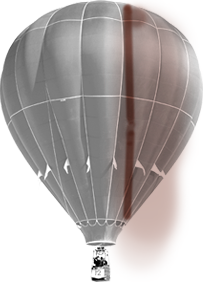
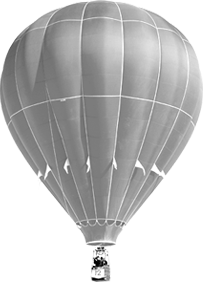
otra animacion mas y limpio la img del globso

Changed region(s): [[0.532, 0.0, 0.9458, 0.9362]]

diff --git a/app/scripts/main.js b/app/scripts/main.js
@@ -1,3 +1,4 @@
+
 $(function () {
     var alto = window.innerHeight;
     var $cap1 = $('#capitulo__1'),
@@ -15,100 +16,140 @@ $(function () {
         }
     });
     var controllerLa = new ScrollMagic.Controller();
+    var control;
+
+    var $sceneL = [], $sceneN = [], $sceneG = [];
+    var $letra = $('.letra');
+
+    function animaciones() {
+        control  = new ScrollMagic.Controller({
+            globalSceneOptions: {
+                triggerHook: 'onLeave'
+            }
+        });
+        $letra.each(function (i,e) {
+            $(this).css('transition', 'none');
+            $sceneL[i] = new ScrollMagic.Scene({
+                triggerElement: '#capitulo__' + Math.ceil((i+1)/2),
+                duration: $(this).parents('.capitulo').height()
+            })
+                .addIndicators({ name: 'letra' + i + ' (duration: ' + $(this).parents('.capitulo').height() + ')' })
+                .setTween($(this), { top : '-=10%' })
+                .addTo(control);
+        });
+        $('.nube').each(function (i,e) {
+            $(this).css('transition', 'none');
+            $sceneN[i] = new ScrollMagic.Scene({
+                triggerElement: '#capitulo__1',
+                duration: $(this).parents('.capitulo').height()-100
+            })
+                .setTween($(this), { left : '-='+ (2 + ((i+1) * 4)) +'%' })
+                .addTo(control);
+        });
+        $('.globo').each(function (i,e) {
+            $(this).css('transition', 'none');
+            $sceneG[i] = new ScrollMagic.Scene({
+                triggerElement: '#capitulo__1',
+                duration: $(this).parents('.capitulo').height()-100
+            })
+                .setTween($(this), { top : '+=10%' })
+                .addTo(control);
+        });
+        $('.abre').each(function (i, e) {
+            $(this).css('transition', 'none');
+            new ScrollMagic.Scene({
+                triggerElement: '#capitulo__2',
+                duration: $(this).parents('.capitulo').height()-100
+            })
+            .setTween($(this), { left : (i==1?'-':'+')+'=10%', top: (i==1?'-':'+')+'=5%' })
+            .addTo(control);
+        })
+    }
 
     $(document).ready(function () {
         var scene = new ScrollMagic.Scene({
-            triggerElement: "#capitulo__1",
+            triggerElement: '#capitulo__1',
             duration: $cap1.find('.capitulo__wrap').innerHeight() - alto
         })
-            .setPin("#capitulo__1 .capitulo__wrapGrph")
-            .addIndicators({ name: "1 pin (duration: 300)" })
+            .setPin('#capitulo__1 .capitulo__wrapGrph')
+            .addIndicators({ name: '1 pin (duration: 300)' })
             .addTo(controller),
 
         scene2 = new ScrollMagic.Scene({
-            triggerElement: "#capitulo__2",
+            triggerElement: '#capitulo__2',
             duration: $cap2.find('.capitulo__wrap').innerHeight() - alto
         })
-            .setPin("#capitulo__2 .capitulo__wrapGrph")
-            .addIndicators({ name: "2 pin (duration: 300)" })
+            .setPin('#capitulo__2 .capitulo__wrapGrph')
+            .addIndicators({ name: '2 pin (duration: 300)' })
             .addTo(controller),
 
         scene3 = new ScrollMagic.Scene({
-            triggerElement: "#capitulo__3",
+            triggerElement: '#capitulo__3',
             duration: $cap3.find('.capitulo__wrap').innerHeight() - alto
         })
-            .setPin("#capitulo__3 .capitulo__wrapGrph")
-            .addIndicators({ name: "3 pin (duration: 300)" })
+            .setPin('#capitulo__3 .capitulo__wrapGrph')
+            .addIndicators({ name: '3 pin (duration: 300)' })
             .addTo(controller);
-
         for(var i = 1; i < 4; i++) {
             new ScrollMagic.Scene({
-                triggerElement: "#capitulo__"+i,
+                triggerElement: '#capitulo__'+i,
                 duration: $('#capitulo__' + i ).find('.capitulo__wrap').innerHeight() - (i<3?alto/2:200)
             })
-                .setClassToggle(".animx_"+i, "active")
-                .addIndicators()
-                .on("enter leave", function (e) {
-                    setTimeout(function () {
-
-                        var $letra = $(".letra");
-
-                        $letra.each(function (i,e) {
-                            new ScrollMagic.Scene({
-                                triggerElement: "#capitulo__" + Math.ceil((i+1)/2),
-                                duration: $(this).parents('.capitulo').height()
-                            })
-                                .setTween($(this), { top : '-=15%' })
-                                .addTo(controller);
-                        });
-                    },500);
-                    console.log(e, e.type == "enter" ? "inside" : "outside");
-                })
-                .addTo((controllerLa));
+            .setClassToggle('.animx_'+i, 'active')
+            .addIndicators()
+            .on('enter leave', function (e) {
+                //console.log(e.type == "enter" ? "inside" : "outside");
+                if (e.type == 'enter'){
+                    $('.letra, .nube, .globo, .abre').css('transition', '.5s all ease-out .5s');
+                    setTimeout( animaciones, 1200 );
+                } else {
+                    control.destroy(true);
+                    control = null;
+                    $sceneL = $sceneN = $sceneG = [];
+                    $('.letra, .nube, .globo, .abre').css('transition', '.5s all ease-out');
+                }
+            })
+            .addTo((controllerLa));
             new ScrollMagic.Scene({
-                triggerElement: "#capitulo__"+i,
+                triggerElement: '#capitulo__'+i,
                 duration: $('#capitulo__' + i ).find('.capitulo__wrap').innerHeight() - (i<3?alto/2:200)
             })
-                .setClassToggle("#capitulo__"+i, "hover")
-                .addIndicators()
-                .addTo((i==1?controller:controllerLa));
+            .setClassToggle('#capitulo__'+i, 'hover')
+            .addIndicators()
+            .addTo((i==1?controller:controllerLa));
         }
 
-        TweenMax.set(".capitulo__texto p, .capitulo__texto blockquote", { y : '+=20%', opacity:0 });
-        var $tex = $(".capitulo__texto p, .capitulo__texto blockquote");
+        TweenMax.set('.capitulo__texto p, .capitulo__texto blockquote', { y : '+=20%', opacity:0 });
+        var $tex = $('.capitulo__texto p, .capitulo__texto blockquote');
         $tex.each(function (e) {
             new ScrollMagic.Scene({ triggerElement: this, duration: alto/2 })
                 .setTween(this, { y:'-=20%',  opacity: 1 })
                 .addTo(controllerEn);
         });
 
-        TweenMax.set(".capitulo__ilustracion img:first-child", { x : '-=40%', opacity:0 });
-        TweenMax.set(".capitulo__ilustracion img:last-child", { x : '+=40%', opacity:0 });
-        var $img = $(".capitulo__ilustracion img");
-        $img.each(function (e) {
+        TweenMax.set('.capitulo__ilustracion img:first-child', { x : '-=40%', opacity:0 });
+        TweenMax.set('.capitulo__ilustracion img:last-child', { x : '+=40%', opacity:0 });
+        $('.capitulo__ilustracion img').each(function (e) {
             new ScrollMagic.Scene({ triggerElement: this, duration: alto/2 })
                 .setTween(this, { x:'0%',  opacity: 1 })
                 .addTo(controllerEn);
         });
 
-        TweenMax.set(".capitulo__pleca", { x : '-=20%', opacity : 0 });
-        var $Tituimg = $(".capitulo__pleca");
-        $Tituimg.each(function (e) {
+        TweenMax.set('.capitulo__pleca', { x : '-=20%', opacity : 0 });
+        $('.capitulo__pleca').each(function (e) {
             new ScrollMagic.Scene({ triggerElement: this, duration: alto/2 })
                 .setTween(this, { x : '0%',  opacity: 1 })
                 .addTo(controllerEn);
         });
 
-        TweenMax.set(".capitulo__letra", { x : '-=70%', opacity : 0 });
-        var $Tituimg = $(".capitulo__letra");
-        $Tituimg.each(function (e) {
+        TweenMax.set('.capitulo__letra', { x : '-=70%', opacity : 0 });
+        $('.capitulo__letra').each(function (e) {
             new ScrollMagic.Scene({ triggerElement: this, duration: alto/2 })
                 .setTween(this, { x : '0%',  opacity: 1 })
                 .addTo(controllerEn);
         });
-        TweenMax.set(".capitulo__globo", { y : '-=60%', opacity : 0 });
-        var $Tituimg = $(".capitulo__globo");
-        $Tituimg.each(function (e) {
+        TweenMax.set('.capitulo__globo', { y : '-=60%', opacity : 0 });
+        $('.capitulo__globo').each(function (e) {
             new ScrollMagic.Scene({ triggerElement: this, duration: alto })
                 .setTween(this, { y : '+=120%',  opacity: 1 })
                 .addTo(controllerEn);

diff --git a/app/index.html b/app/index.html
@@ -60,7 +60,7 @@
                 <div class="capitulo__ilustra">
                     <img src="./images/cap1-nube1.png" alt="eter magazine" class="capitulo--anima animx_1 nube">
                     <img src="./images/cap1-nube2.png" alt="eter magazine" class="capitulo--anima animx_1 nube">
-                    <img src="./images/cap1-globo.png" alt="eter magazine" class="capitulo--anima animx_1">
+                    <img src="./images/cap1-globo.png" alt="eter magazine" class="capitulo--anima animx_1 globo">
                     <img src="./images/cap1-passport.png" alt="eter magazine" class="capitulo--anima animx_1">
                     <img src="./images/cap1-postal.png" alt="eter magazine" class="capitulo--anima animx_1">
                     <img src="./images/cap1-nube3.png" alt="eter magazine" class="capitulo--anima animx_1 nube">
@@ -98,8 +98,8 @@
                 <img src="./images/cap2-stacion.png" alt="eter magazine" class="capitulo--anima animx_2">
                 <img src="./images/cap2-jackie.png" alt="eter magazine" class="capitulo--anima animx_2">
                 <img src="./images/cap2-drake.png" alt="eter magazine" class="capitulo--anima animx_2">
-                <img src="./images/cap2-moneda.png" alt="eter magazine" class="capitulo--anima animx_2">
-                <img src="./images/cap2-slash.png" alt="eter magazine" class="capitulo--anima animx_2">
+                <img src="./images/cap2-moneda.png" alt="eter magazine" class="capitulo--anima animx_2 abre">
+                <img src="./images/cap2-slash.png" alt="eter magazine" class="capitulo--anima animx_2 abre">
                 <img src="./images/cap2-sign.png" alt="eter magazine" class="capitulo--anima animx_2">
                 <img src="./images/cap2-letra1.png" alt="eter magazine" class="capitulo--anima animx_2 letra">
                 <img src="./images/cap2-letra2.png" alt="eter magazine" class="capitulo--anima animx_2 letra">

diff --git a/app/styles/main.scss b/app/styles/main.scss
@@ -328,11 +328,11 @@ p {
   }
   &:nth-child(7){
     left: 46%;
-    top: 53.5%;
+    top: 55%;
   }
   &:nth-child(8){
     left: 63%;
-    top: 54%;
+    top: 56%;
   }
 }
 .animx_3 {
